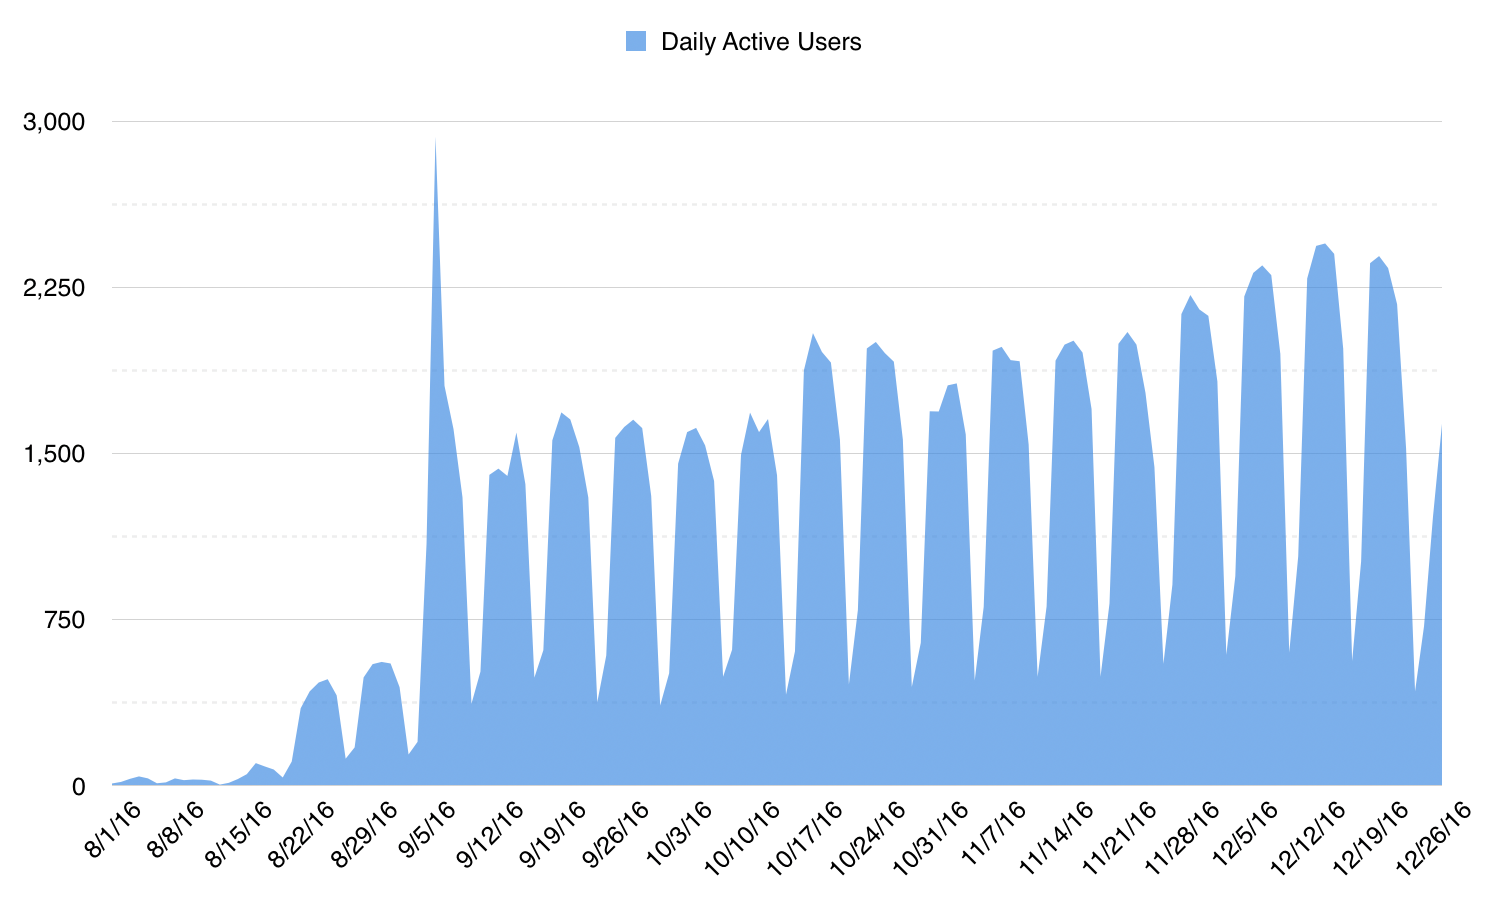
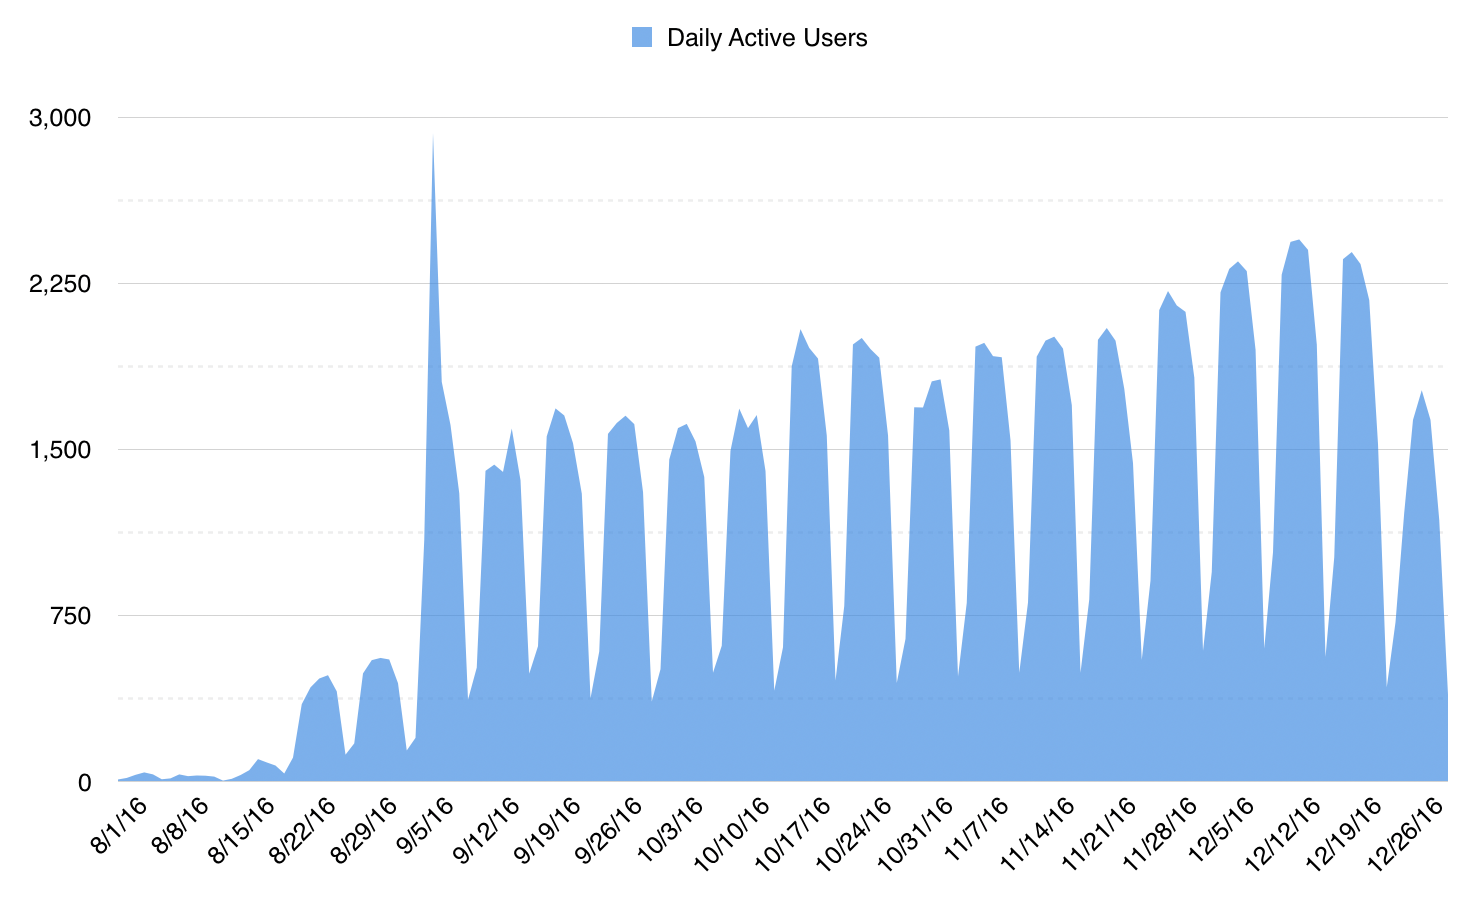
Finished recap month 6

diff --git a/content/blog/progress-report-3.md b/content/blog/progress-report-3.md
@@ -1,13 +1,12 @@
 ---
 date: 2017-01-01
 title: Month 6 Recap – $50 MRR
-draft: true
 slug: progress-report-3
 series: ["transparency"]
 tags: ["company", "progress"]
 ---
 
-December is a notoriously slow month because of the holidays. I decided to take some
+December is a notoriously slow month because of the holidays. I also decided to take some
 time off to reflect on things and spend time with family, so this recap will be 
 relatively short. _(Still interesting, I promise!)_
 
@@ -16,8 +15,9 @@ relatively short. _(Still interesting, I promise!)_
 ## Daily Active Users
 
 Since Insomnia is mostly used in the workplace, holiday vacation time made a 
-large dent on usage numbers this month. The daily active users chart below shows 
-clear growth at the start of the month but drops off significantly towards the end. 
+large dent in the usage numbers this month. The daily active users chart below shows 
+clear growth at the start of the month but begins to drop off near the end, and is
+cut in half during the last week. This should bounce back quickly though.
 
 ![Insomnia Daily Active Users December 2016](/images/blog/dau-6.png)
 
@@ -25,21 +25,22 @@ clear growth at the start of the month but drops off significantly towards the e
 
 Much like usage, monthly recurring revenue (MRR) also seemed to be affected 
 by the holiday season (although it's hard to tell with such small numbers). 
-In December, **MRR increased by over 100%**, ending the month at $50 MRR. The
+In December, **MRR increased by 67%**, ending the month at $45.78 MRR. The
 following chart shows MRR over the last five months.
 
 ![Insomnia Monthly Recurring Revenue December 2016](/images/blog/mrr-6.png)
 
-To put this into perspective, **$50 MRR is 1% of a moderate salary** in my city. 
-The finish line is in sight, but still very far away.
+To put this into perspective, **$50 MRR is 1% of a moderate salary** where I live,
+meaning that success will require 100x growth. The finish line is in sight, but very
+far away.
 
 In order to reach the magic $5000/mo mark before my savings run dry, I will 
-need to grow MRR by 50% per month for the next twelve months. This seems like an
-achievable goal and the launch of teams next month should help get there. 
+need to grow MRR by 50% per month for the next twelve months. This seems like a
+difficult goal but I hope the launch of teams in January will help get there. 
 
 ## This Month's Wins and Losses
 
-This month, I wanted to force myself to think back on more specific things that happened, 
+This month I wanted to force myself to think back on more specific things that happened, 
 so this section is a new attempt at doing that. It's not very organized, but here's a 
 list of noteworthy things that happened this month.
 
@@ -48,7 +49,7 @@ list of noteworthy things that happened this month.
 - **WIN:** Had a blog post [do well on Reddit](https://www.reddit.com/r/webdev/comments/5hf898/wrote_about_why_i_think_electron_is_a_web/)
 - **WIN:** Finished and deployed the [web interface](/app/) to manage Insomnia accounts
 - **WIN:** Was able to delete custom (buggy) DNS resolution code after figuring out how to do 
-it with the HTTP framework Insomnia already used
+it properly
 - **LOSS:** Didn't finish Teams on time
 - **LOSS:** Didn't hit any set goals
 
@@ -56,9 +57,8 @@ it with the HTTP framework Insomnia already used
 
 Last month I set three goals for myself and failed to meet all of them. I failed
 to **launch Teams and reach $100 MRR**, didn't **publish content once a week**, and 
-didn't **start reacting to more actionable metrics**. I _did_ make a
-sizable dent in all of these but more important things distracted me from completing
-them, leaving me to believe that the goals set could have been better chosen.
+didn't **start reacting to more actionable metrics**. I _did_ make a sizable dent in 
+all of them, but more important things came up and prevented their completion.
 
 This month I chose only important and achievable goals. Here's what I plan to 
 accomplish in January.
@@ -78,6 +78,8 @@ up should take a few days at most.
 Well, that's it for 2016! It's been almost exactly six months since I quit my job to 
 take on Insomnia full-time. I'm super excited to have passed the $1 MRR milestone and
 can't wait to see what happens in 2017.
+
+![Happy New Year Charlie Brown](https://media.giphy.com/media/1PMVNNKVIL8Ig/giphy.gif)
 
 If you feel that I left anything out of this post or have questions, feel free to leave
 a comment below and I'll respond ASAP.
